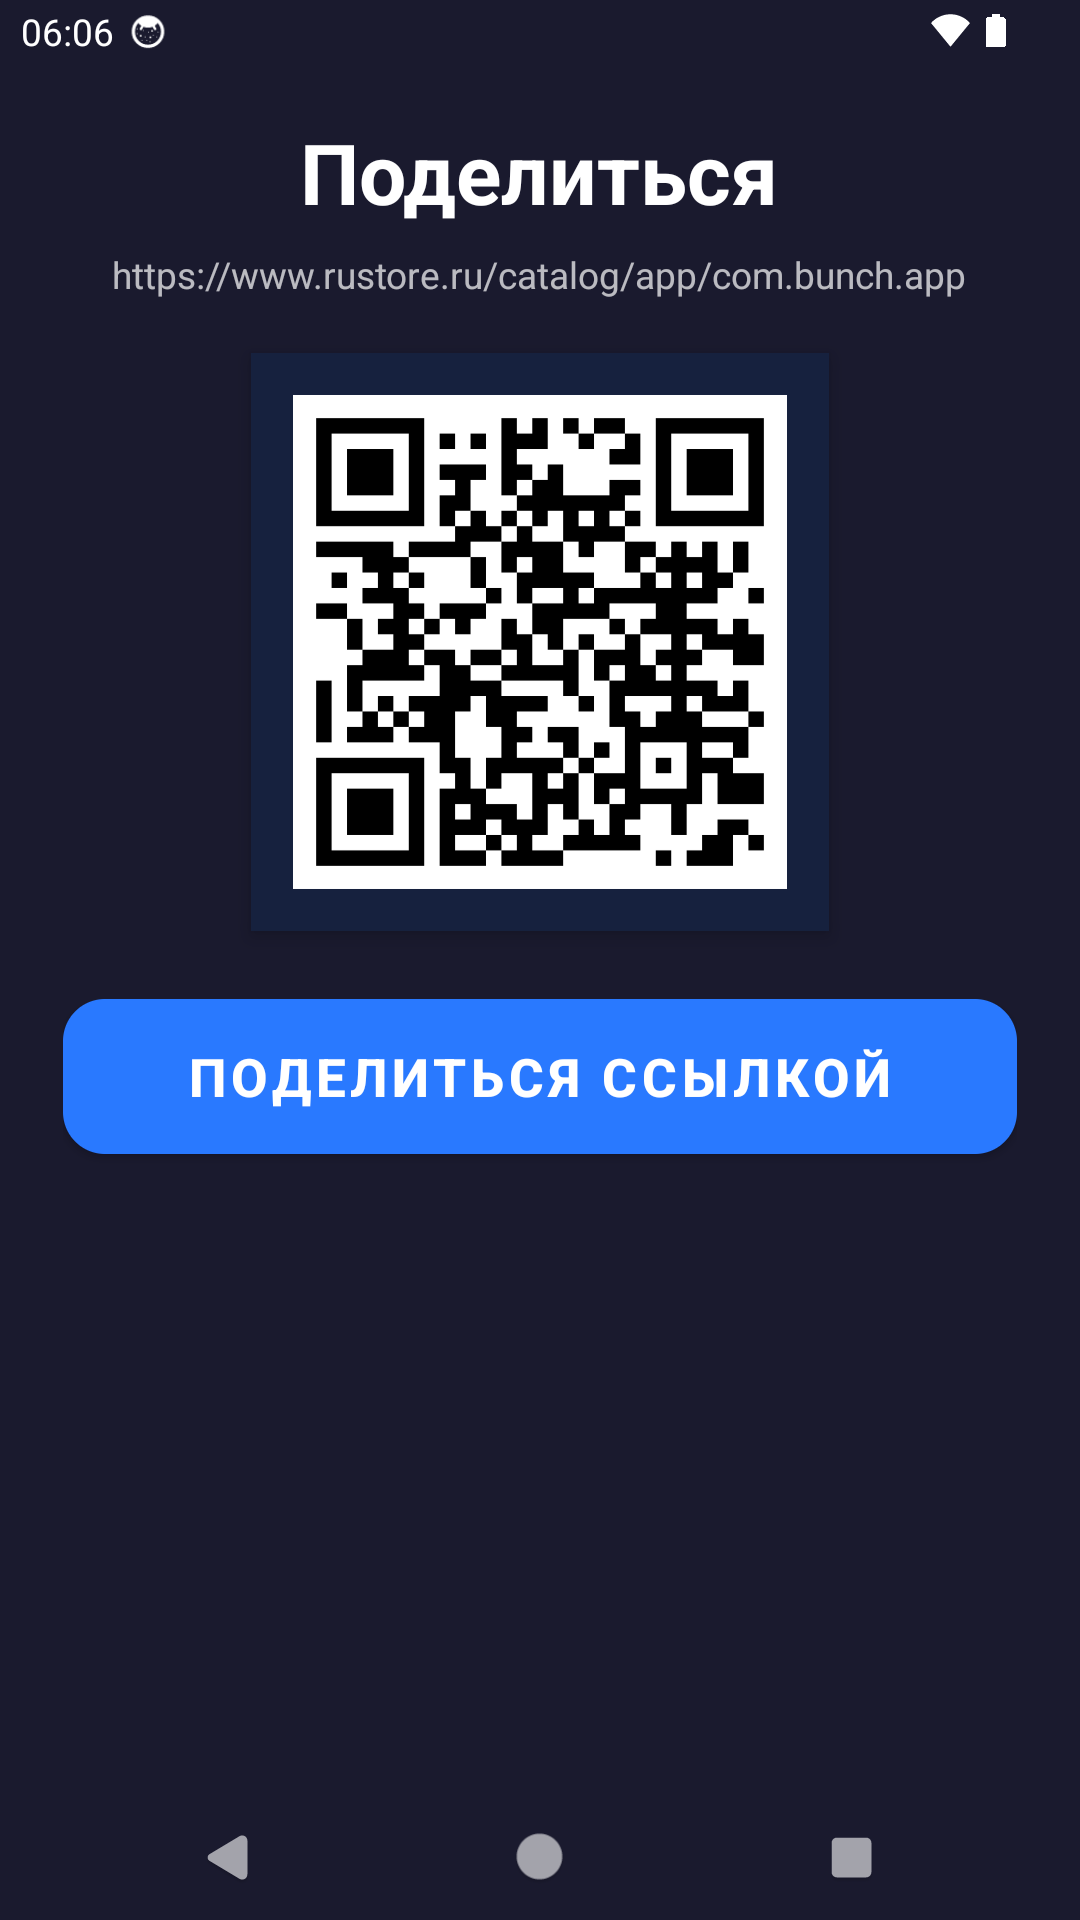
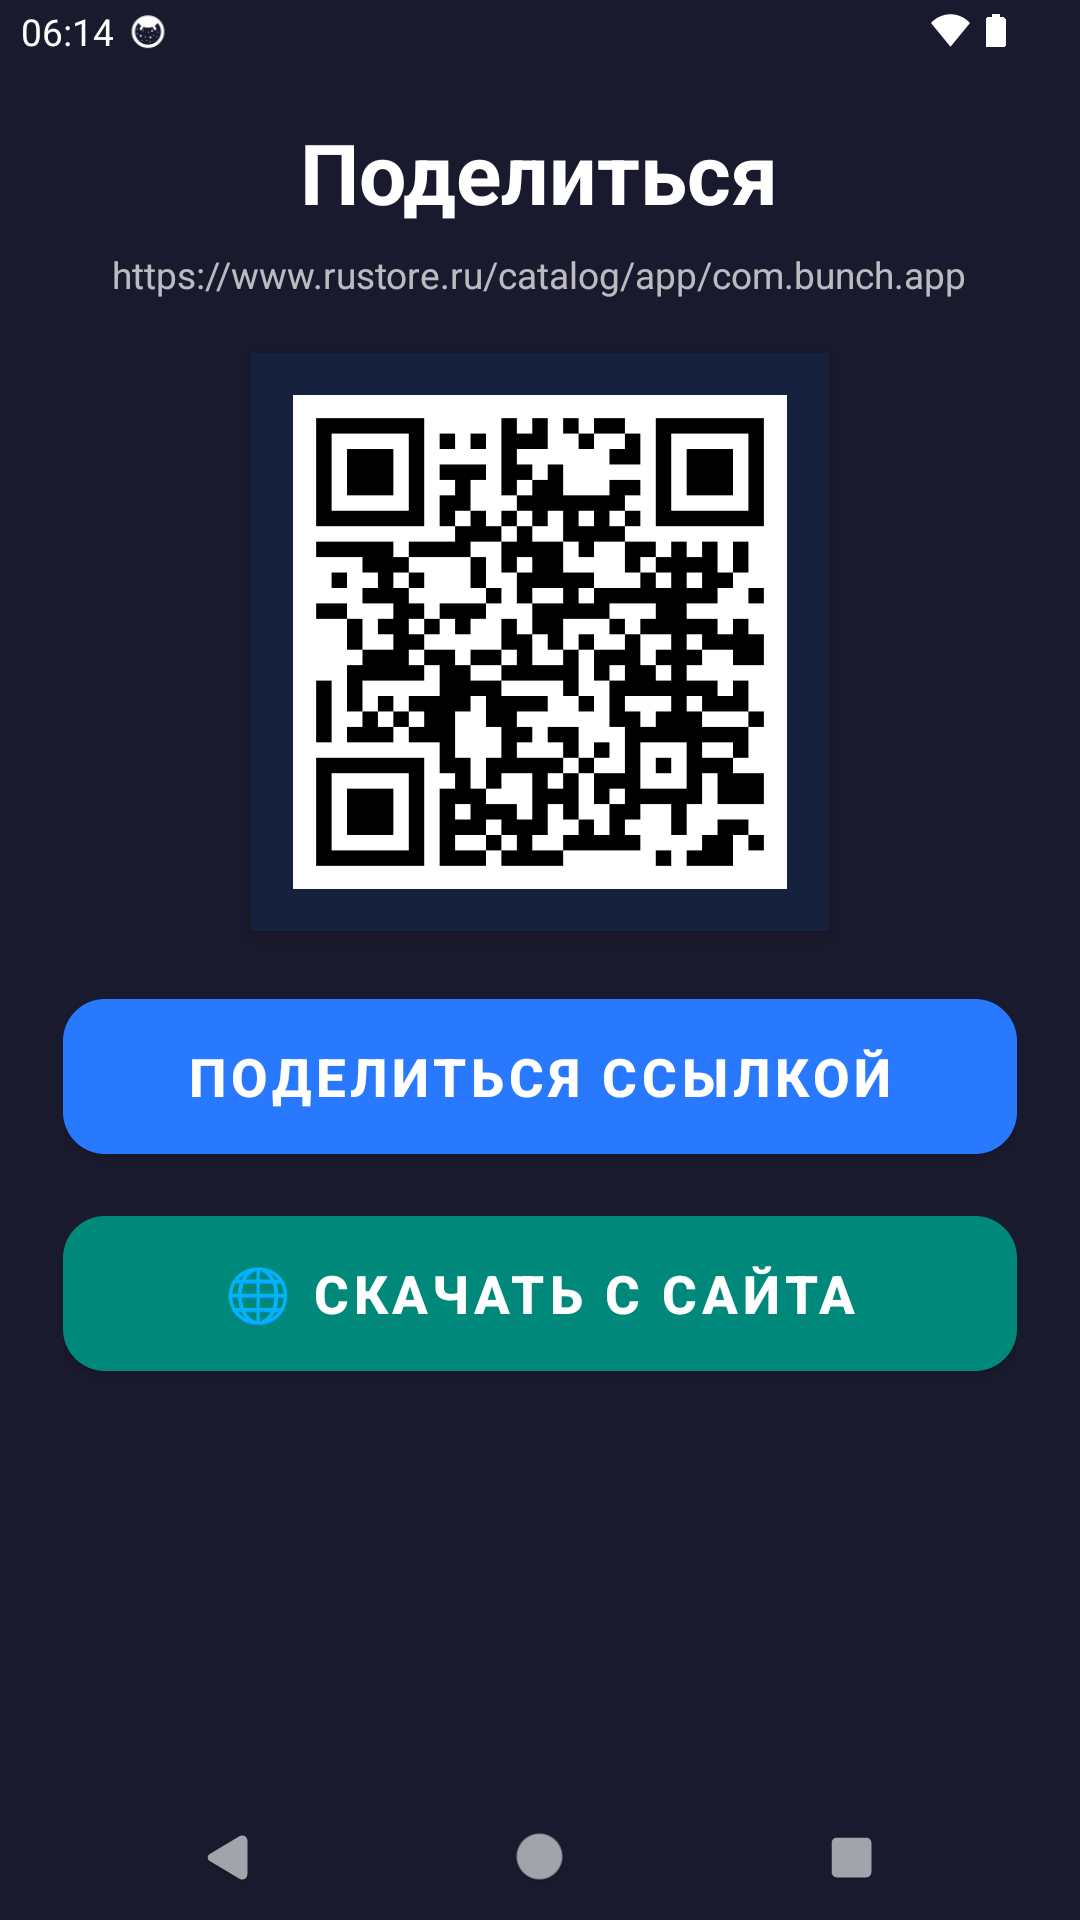
Прямая ссылка на APK, новые скриншоты, имя разработчика

Changed region(s): [[0.0611, 0.625, 0.9472, 0.7188], [0.0611, 0.0, 0.1222, 0.0312]]

diff --git a/index.html b/index.html
@@ -20,6 +20,7 @@
     <p class="tagline">70+ смешных звуков для розыгрышей: чихи, кашли, пуки, отрыжка, иканье</p>
     <div class="cta">
       <a class="btn btn-primary" href="https://www.rustore.ru/catalog/app/com.bunch.app">Скачать в RuStore</a>
+      <a class="btn btn-apk" href="https://github.com/takomak2012-cyber/bunch/releases/download/v5.2/Bunch_v5.2.apk">Скачать APK напрямую</a>
       <a class="btn btn-ghost" href="#features">Что внутри</a>
     </div>
     <p class="note">Без регистрации · работает без интернета · Android 7.0+</p>
@@ -71,6 +72,8 @@
       <img src="images/01_main.png" alt="Главный экран Bunch">
       <img src="images/02_category.png" alt="Список звуков">
       <img src="images/03_share.png" alt="Экран поделиться">
+      <img src="images/04_site_qr.png" alt="QR-код на страницу загрузки">
+      <img src="images/05_settings.png" alt="Настройки приложения">
     </div>
   </div>
 </section>
@@ -111,7 +114,7 @@
       <a href="privacy.html">Политика конфиденциальности</a>
       <a href="https://www.rustore.ru/catalog/app/com.bunch.app">Bunch в RuStore</a>
     </p>
-    <p class="dev">Разработчик: Панфилов Вячеслав Викторович · takomak2012@yandex.ru</p>
+    <p class="dev">Разработчик: Вячеслав Долар · takomak2012@yandex.ru</p>
   </div>
 </footer>
 

diff --git a/privacy.html b/privacy.html
@@ -21,7 +21,7 @@
   <div class="wrap" style="max-width:780px">
     <h2>1. Общие положения</h2>
     <p>Приложение Bunch (далее — Приложение) разработано для развлечения: подбор смешных звуков и их воспроизведение по расписанию.</p>
-    <p>Разработчик: Панфилов Вячеслав Викторович. Контакт: <a href="mailto:takomak2012@yandex.ru" style="color:#ff6b35">takomak2012@yandex.ru</a></p>
+    <p>Разработчик: Вячеслав Долар. Контакт: <a href="mailto:takomak2012@yandex.ru" style="color:#ff6b35">takomak2012@yandex.ru</a></p>
 
     <h2>2. Какие данные собирает Приложение</h2>
     <p>Приложение не собирает и не передаёт персональные данные пользователя: в нём нет аккаунтов, собственной аналитики, идентификаторов пользователя и рекламных трекеров собственной разработки.</p>

diff --git a/style.css b/style.css
@@ -66,6 +66,7 @@ h1 {
 .btn:hover { transform: translateY(-2px); filter: brightness(1.06); }
 
 .btn-primary { background: var(--accent); color: #fff; }
+.btn-apk { background: var(--teal); color: #fff; }
 .btn-ghost { background: transparent; color: var(--text); border: 2px solid #3a3a5e; }
 
 .note { color: #7d7d9a; font-size: 14px; margin-top: 22px; }
